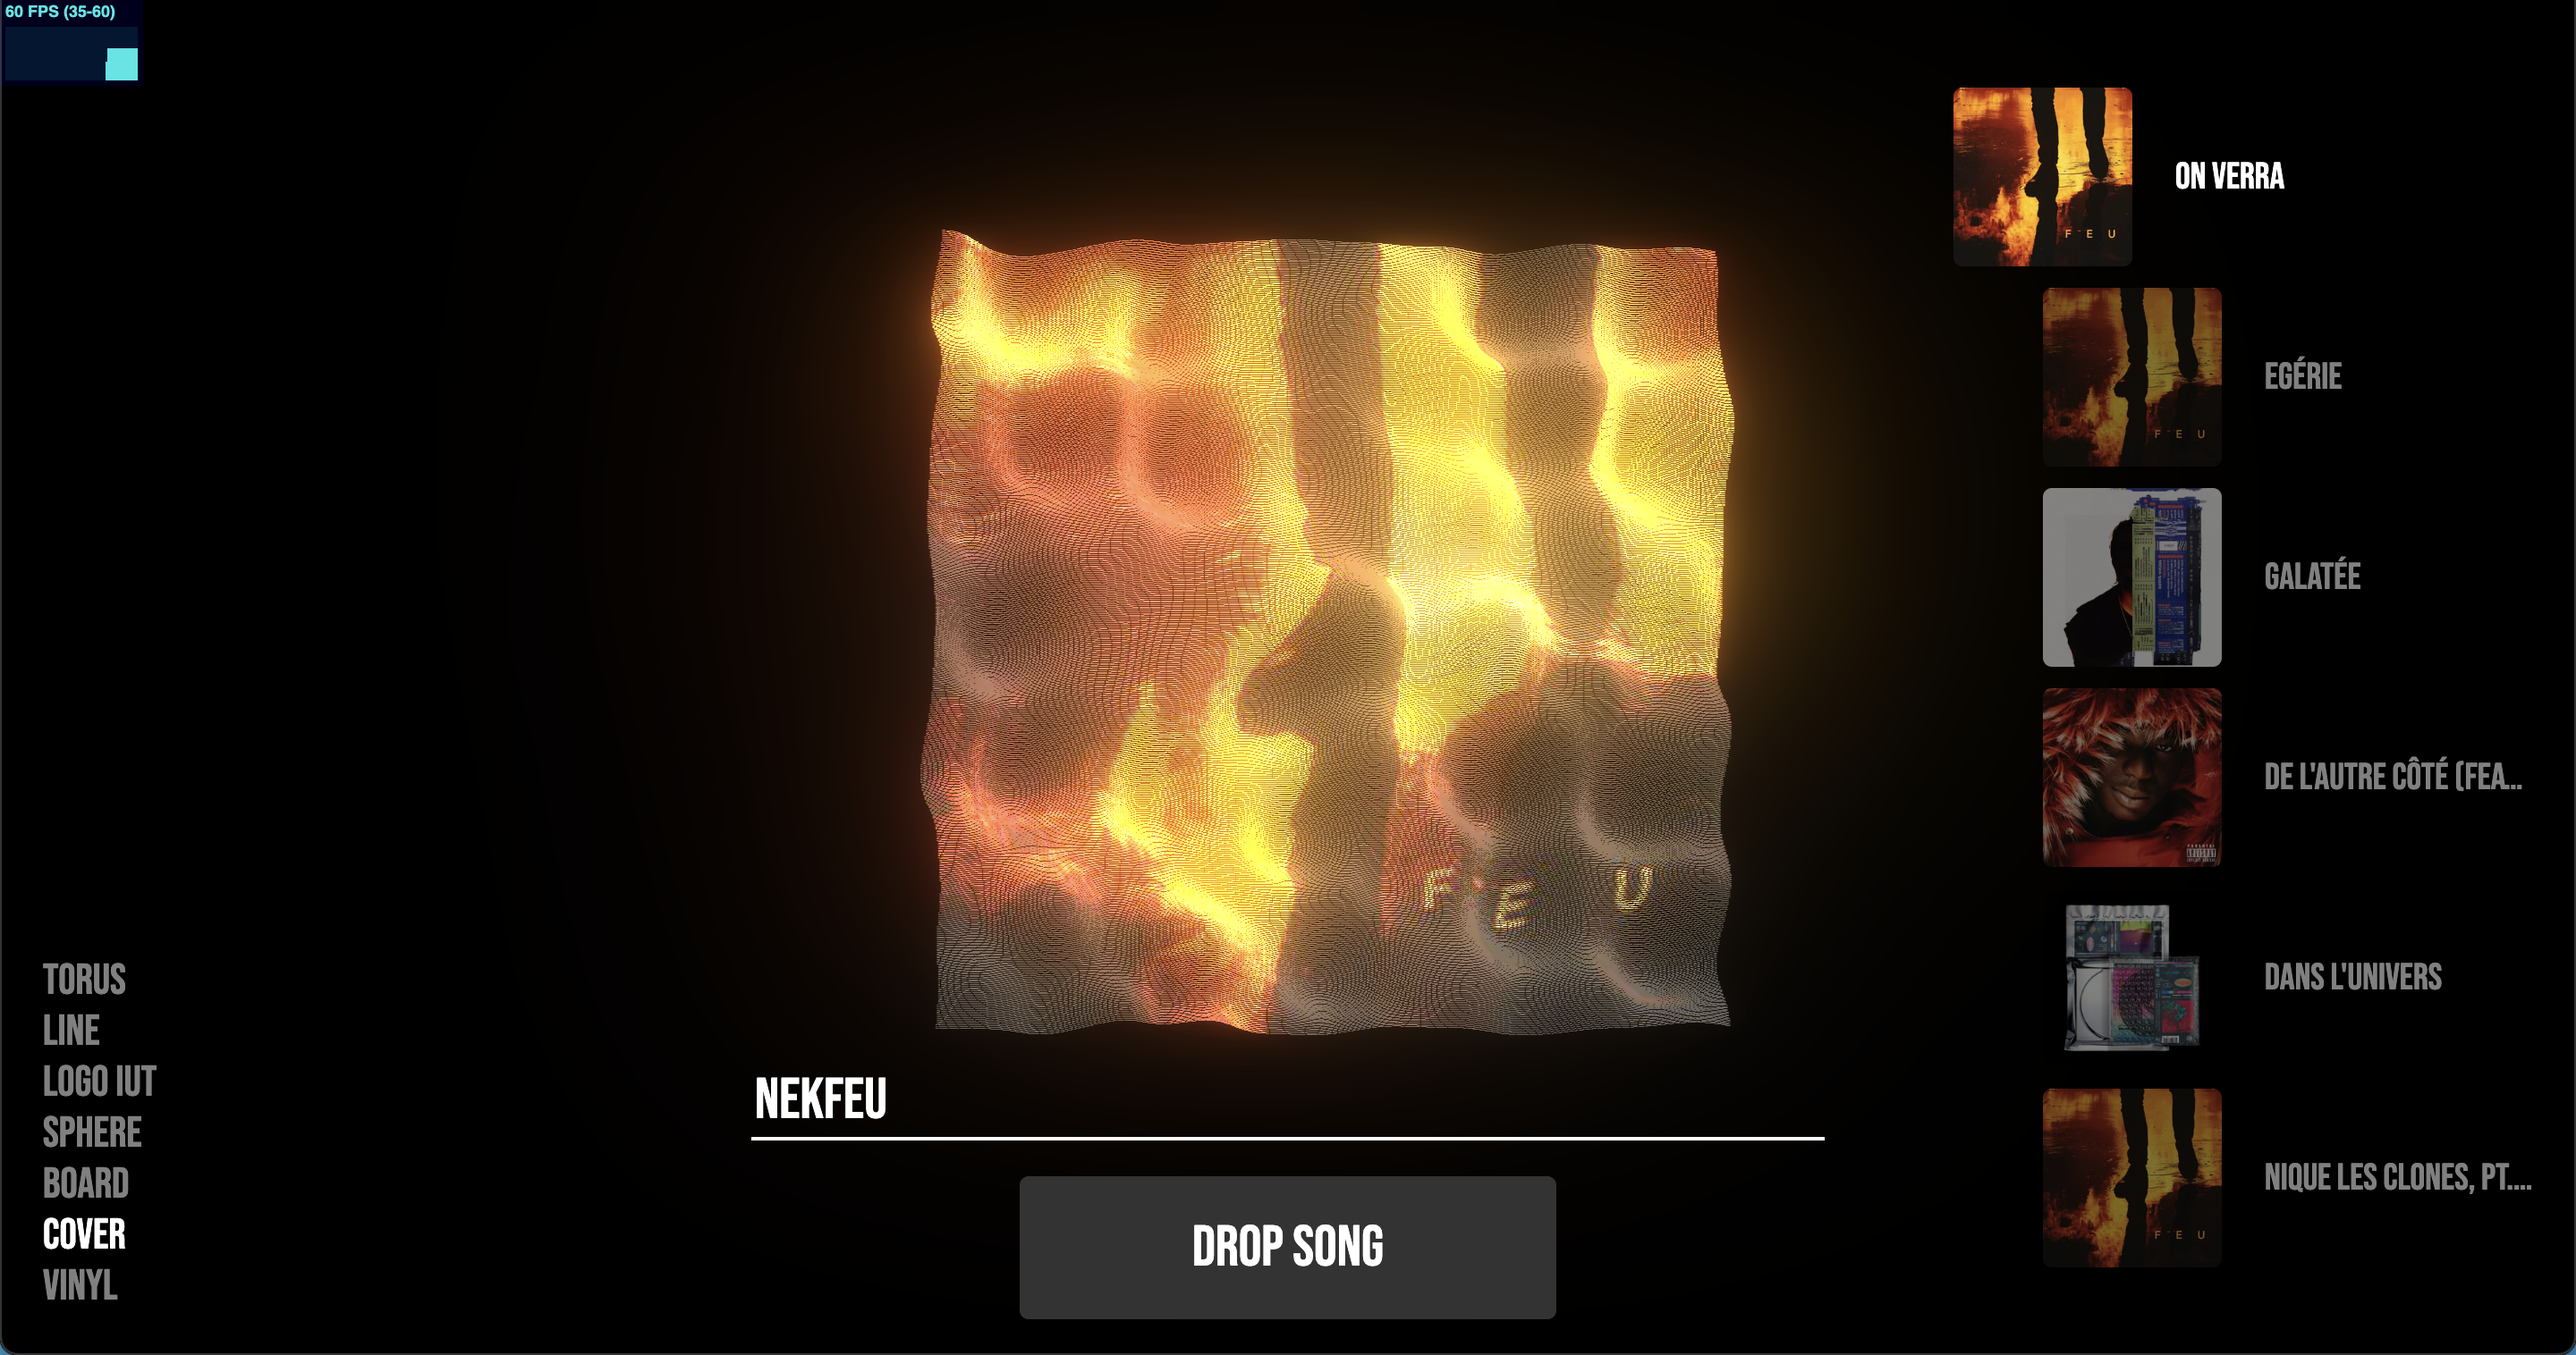
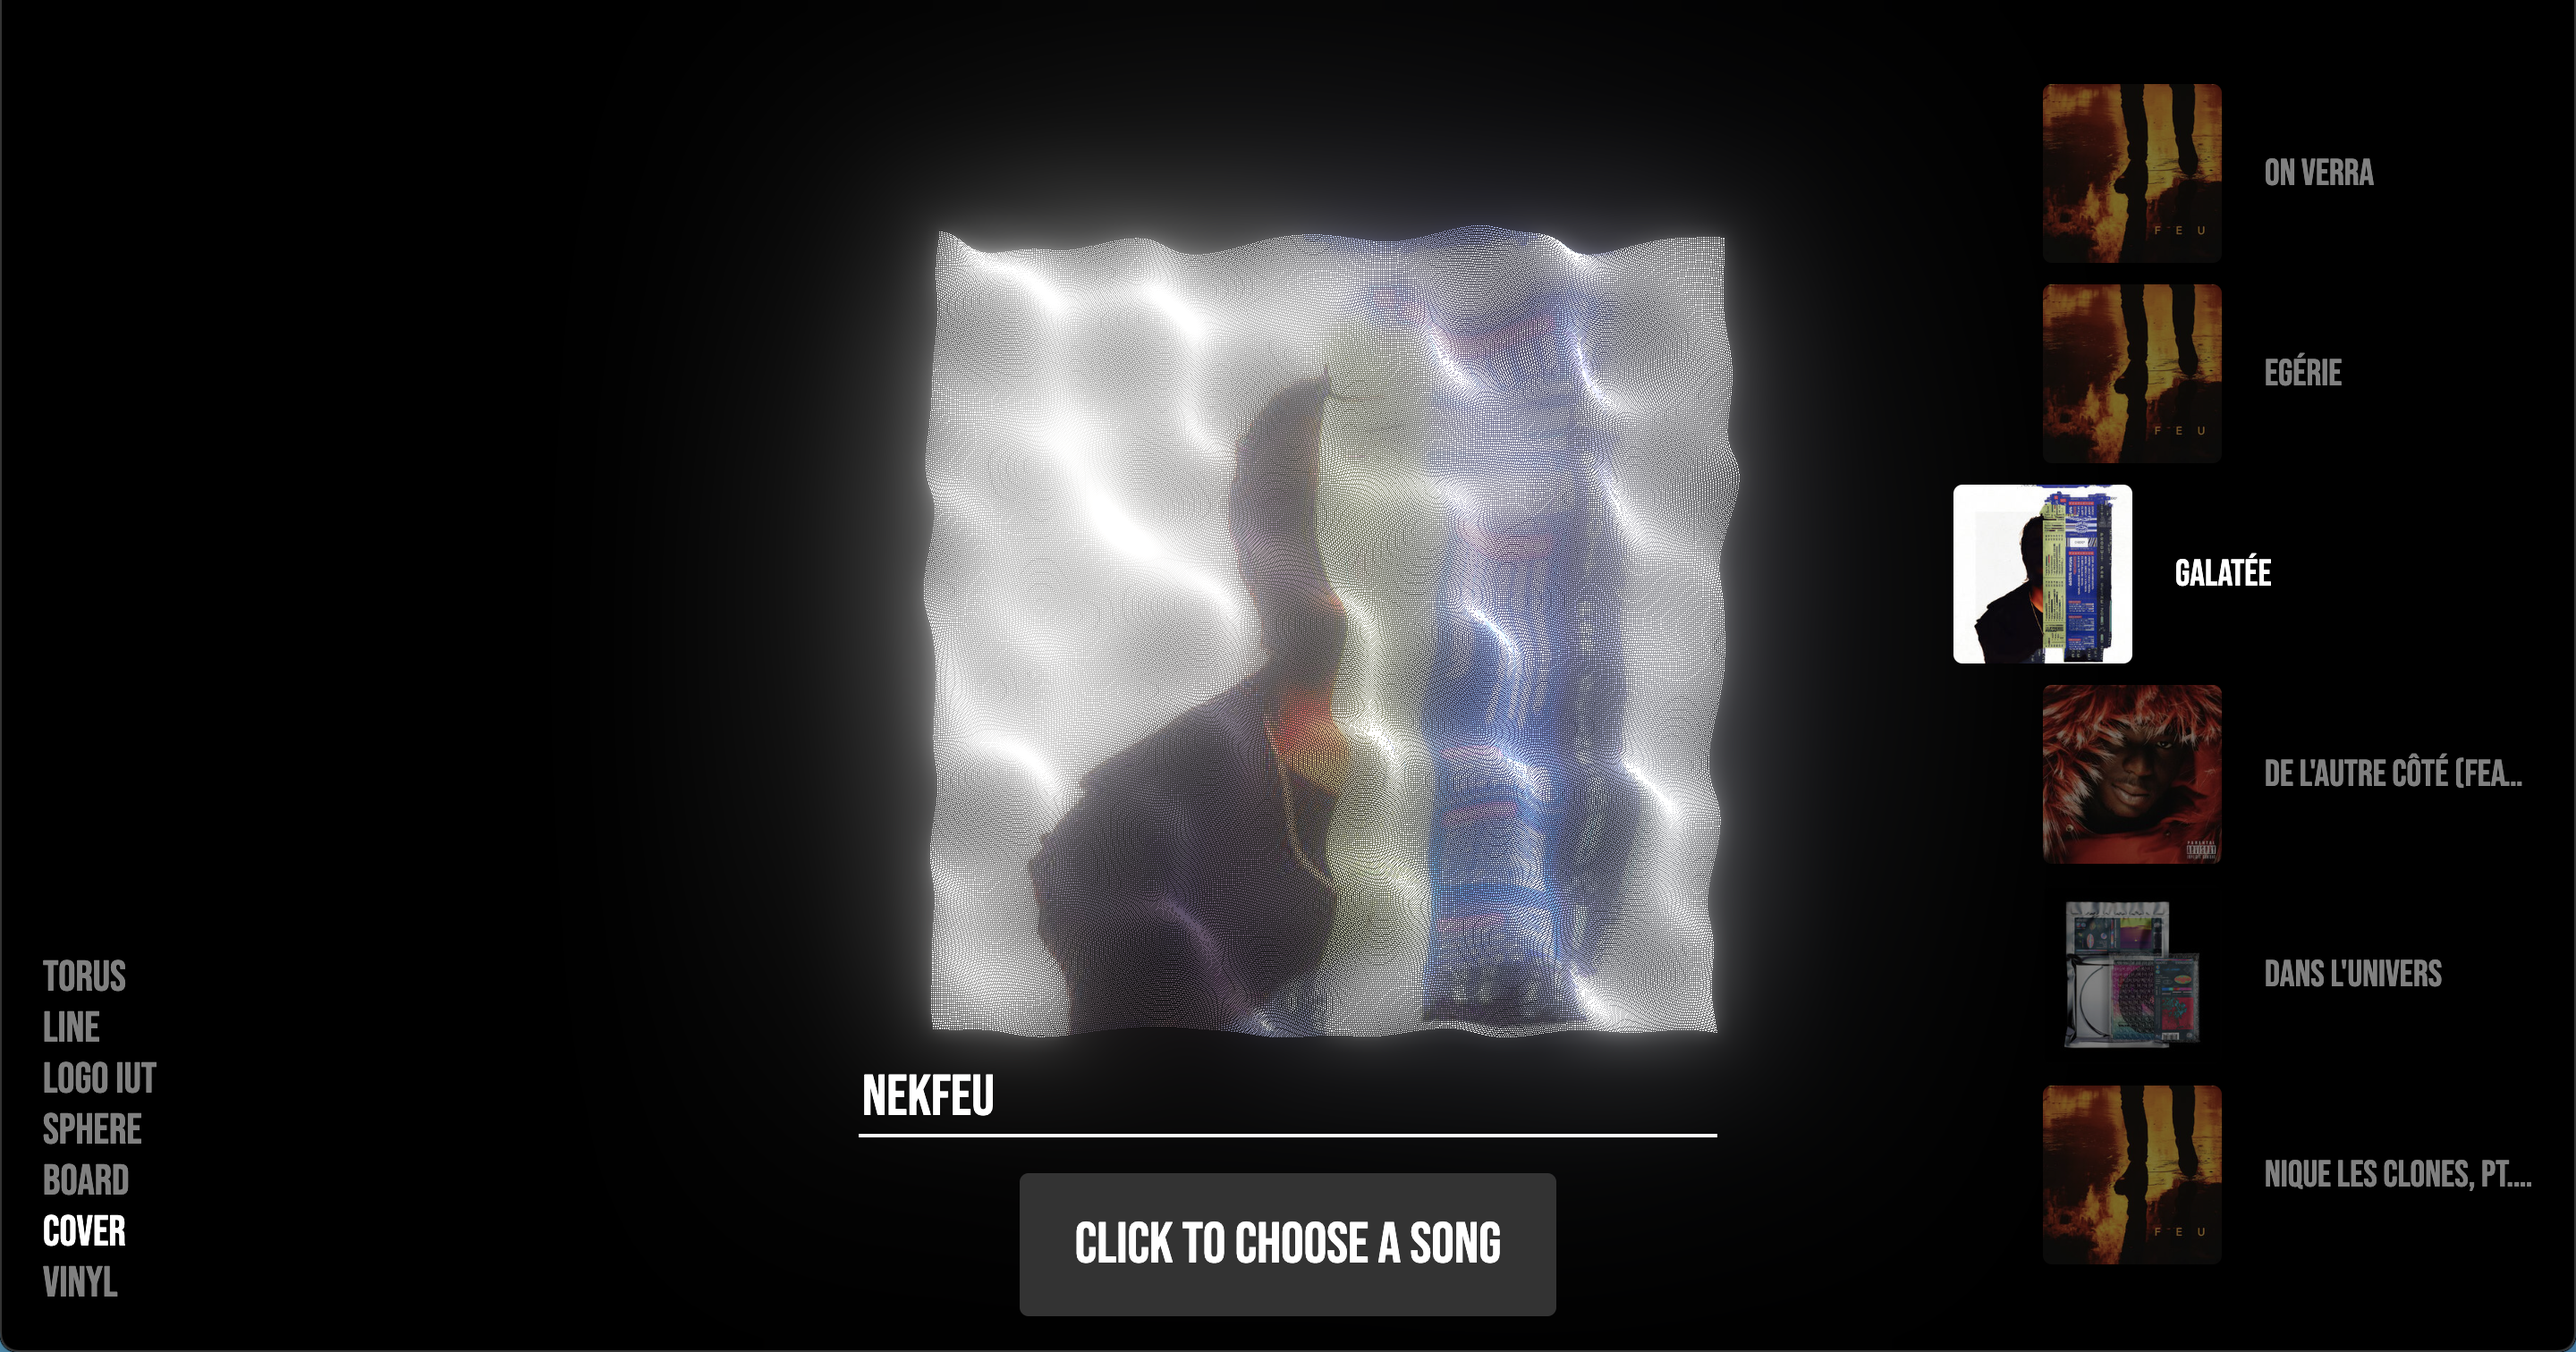
🎉 Last push

diff --git a/src/webgl/Scene.js b/src/webgl/Scene.js
@@ -5,7 +5,7 @@ import { OrbitControls } from "three/addons/controls/OrbitControls.js";
 import { EffectComposer } from "three/addons/postprocessing/EffectComposer.js";
 import { RenderPass } from "three/addons/postprocessing/RenderPass.js";
 import { UnrealBloomPass } from "three/addons/postprocessing/UnrealBloomPass.js";
-import Stats from "three/examples/jsm/libs/stats.module.js";
+// import Stats from "three/examples/jsm/libs/stats.module.js";
 import Torus from "./objects/Torus";
 import Vinyl from "./objects/Vinyl";
 import Line from "./objects/Line";
@@ -22,7 +22,7 @@ class SCENE {
     this.canvas = canvas;
 
     this.setupScene();
-    this.setupStats();
+    // this.setupStats();
     this.setupCamera();
     this.setupControl();
     this.setupRenderer();
@@ -45,10 +45,10 @@ class SCENE {
     this.scene = new THREE.Scene();
   }
 
-  setupStats() {
-    this.stats = new Stats();
-    document.body.appendChild(this.stats.dom);
-  }
+  // setupStats() {
+  //   this.stats = new Stats();
+  //   document.body.appendChild(this.stats.dom);
+  // }
 
   setupCamera() {
     this.camera = new THREE.PerspectiveCamera(
@@ -224,7 +224,7 @@ class SCENE {
   }
 
   tick = (time, deltaTime, frame) => {
-    this.stats.begin();
+    // this.stats.begin();
 
     // this.torus.tick();
     this.selectedObject.tick(deltaTime);
@@ -239,7 +239,7 @@ class SCENE {
     // this.renderer.render(this.scene, this.camera);
     this.composer.render();
 
-    this.stats.end();
+    // this.stats.end();
     // gsap.ticker.add(this.tick);
   };
 }

diff --git a/src/components/search/Search.module.scss b/src/components/search/Search.module.scss
@@ -25,15 +25,17 @@
 }
 
 .search {
-  position: fixed;
+  width: 600px;
+  margin-left: auto;
+  margin-right: auto;
   display: flex;
   justify-content: center;
   align-items: center;
   flex-direction: column;
-  bottom: 0;
-  left: 0;
-  right: 0;
-  margin: auto;
+  position: fixed;
+  bottom: 0; /* Ajustez cette valeur selon votre mise en page */
+  left: 50%;
+  transform: translateX(-50%);
   border: none;
   outline: 0;
   background-color: transparent;
@@ -41,7 +43,8 @@
   font-family: "Bebas Neue", sans-serif;
 
   .search_bar {
-    width: 600px;
+    width: 80%;
+    max-width: 600px;
     border-bottom: 2px solid #ffffff;
   }
 

diff --git a/src/components/search/Search.jsx b/src/components/search/Search.jsx
@@ -72,7 +72,11 @@ const Search = () => {
         onKeyDown={onKeyDown}
       ></input>
       <div className={s.drop_zone} {...getRootProps()}>
-        <input type="submit" value="Drop song" {...getInputProps} />
+        <input
+          type="submit"
+          value="Click to choose a song"
+          {...getInputProps}
+        />
       </div>
       {isDragActive && <input {...getInputProps} />}
     </div>

diff --git a/src/components/song/Song.module.scss b/src/components/song/Song.module.scss
@@ -7,6 +7,7 @@
   transition: opacity 0.25s, transform 200ms ease-out;
   height: 100px;
   animation: slideInLeft 0.5s ease-out;
+  z-index: 1;
 
   @keyframes slideInLeft {
     from {
